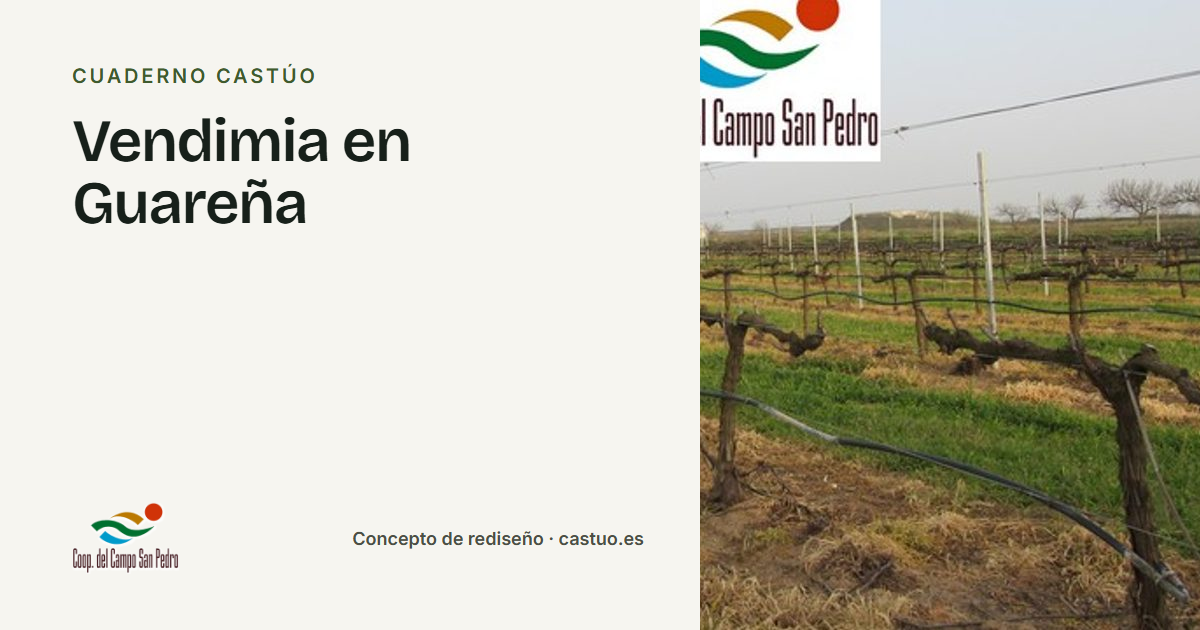
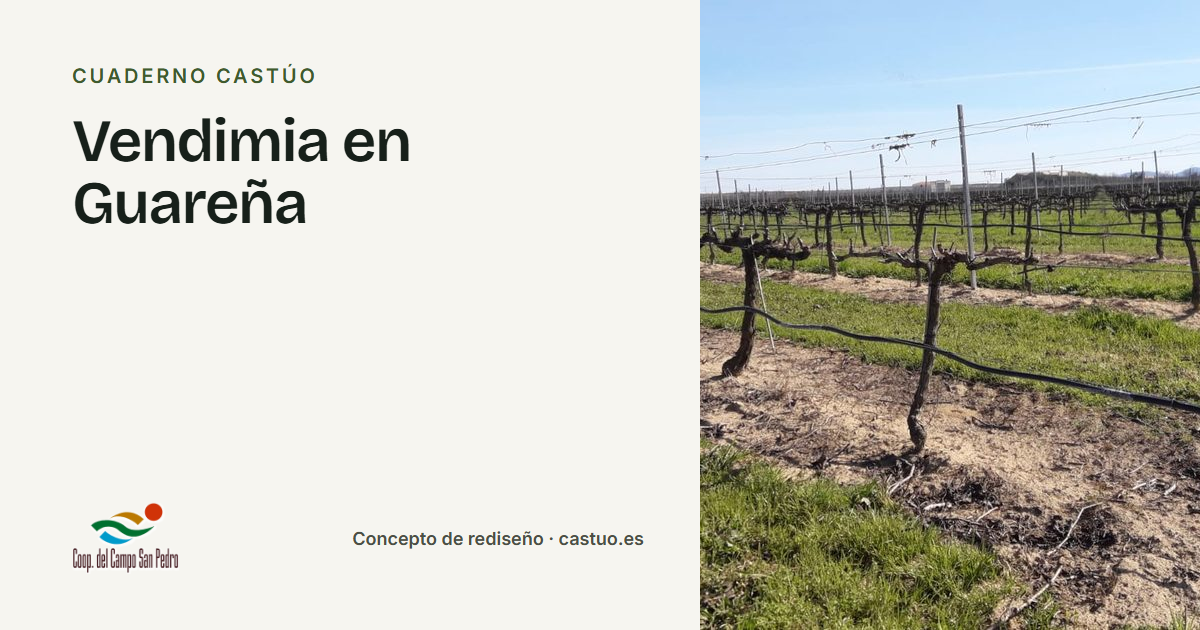
Blog: las pestañas muestran el resultado a la vista y toda la categoría
Al pulsar una pestaña, el filtro se aplicaba a «Lo último del cuaderno»,
2.200 px por debajo, y parecía que no pasaba nada. Ahora:
- se ocultan el destacado, «Empieza por aquí» y la paginación, y la
  página baja hasta los resultados si quedan fuera de la pantalla;
- el filtro incluye todos los artículos de la categoría, no solo los 9
  de la primera página («Todo» sigue mostrando la página 1);
- «Vendimia en Guareña» usa una foto sin el logo superpuesto.

Pruebas del blog: 63/63.

diff --git a/src/scripts/filters.ts b/src/scripts/filters.ts
@@ -22,7 +22,7 @@ function apply(root: HTMLElement, s: State, animate = true) {
     const cats = (el.dataset.cat ?? '').split(' ');
     const fmts = (el.dataset.formats ?? '').split(' ');
     const price = Number(el.dataset.price ?? 0);
-    const ok = (s.cat === 'todo' || cats.includes(s.cat))
+    const ok = (s.cat === 'todo' ? !el.hasAttribute('data-extra') : cats.includes(s.cat))
       && (!s.fmts.length || s.fmts.some((f) => fmts.includes(f)))
       && (!s.prices.length || s.prices.some((r) => priceMatch(price, r)));
     el.hidden = !ok;
@@ -48,6 +48,8 @@ function apply(root: HTMLElement, s: State, animate = true) {
   for (const c of $$('[data-filter-count]', root)) c.textContent = `${shown} ${c.dataset.unit ?? 'resultados'}`;
   const empty = $('[data-filter-empty]', root);
   if (empty) empty.hidden = shown > 0;
+  // Secciones que sobran al filtrar (en el blog: destacado y guías), para que los resultados suban junto a las pestañas
+  for (const el of $$('[data-filter-hide]', root)) el.hidden = s.cat !== (root.dataset.default ?? 'todo');
   const title = $('[data-filter-title]', root);
   if (title) { const b = $<HTMLElement>(`[data-filter-cat="${s.cat}"]`, root); title.textContent = b?.dataset.title ?? title.textContent; }
 
@@ -105,6 +107,12 @@ export function initFilters() {
       apply(root, s);
       syncUrl(root, s);
       announce(`Mostrando ${b.textContent?.trim()}`);
+      // Si los resultados quedan fuera de la pantalla, se lleva al usuario hasta ellos
+      const target = $('[data-filter-scroll]', root);
+      if (target) {
+        const top = target.getBoundingClientRect().top;
+        if (top > window.innerHeight * 0.55 || top < 0) target.scrollIntoView({ behavior: reduced() ? 'auto' : 'smooth', block: 'start' });
+      }
     });
     root.addEventListener('change', (e) => {
       const t = e.target as HTMLElement;
